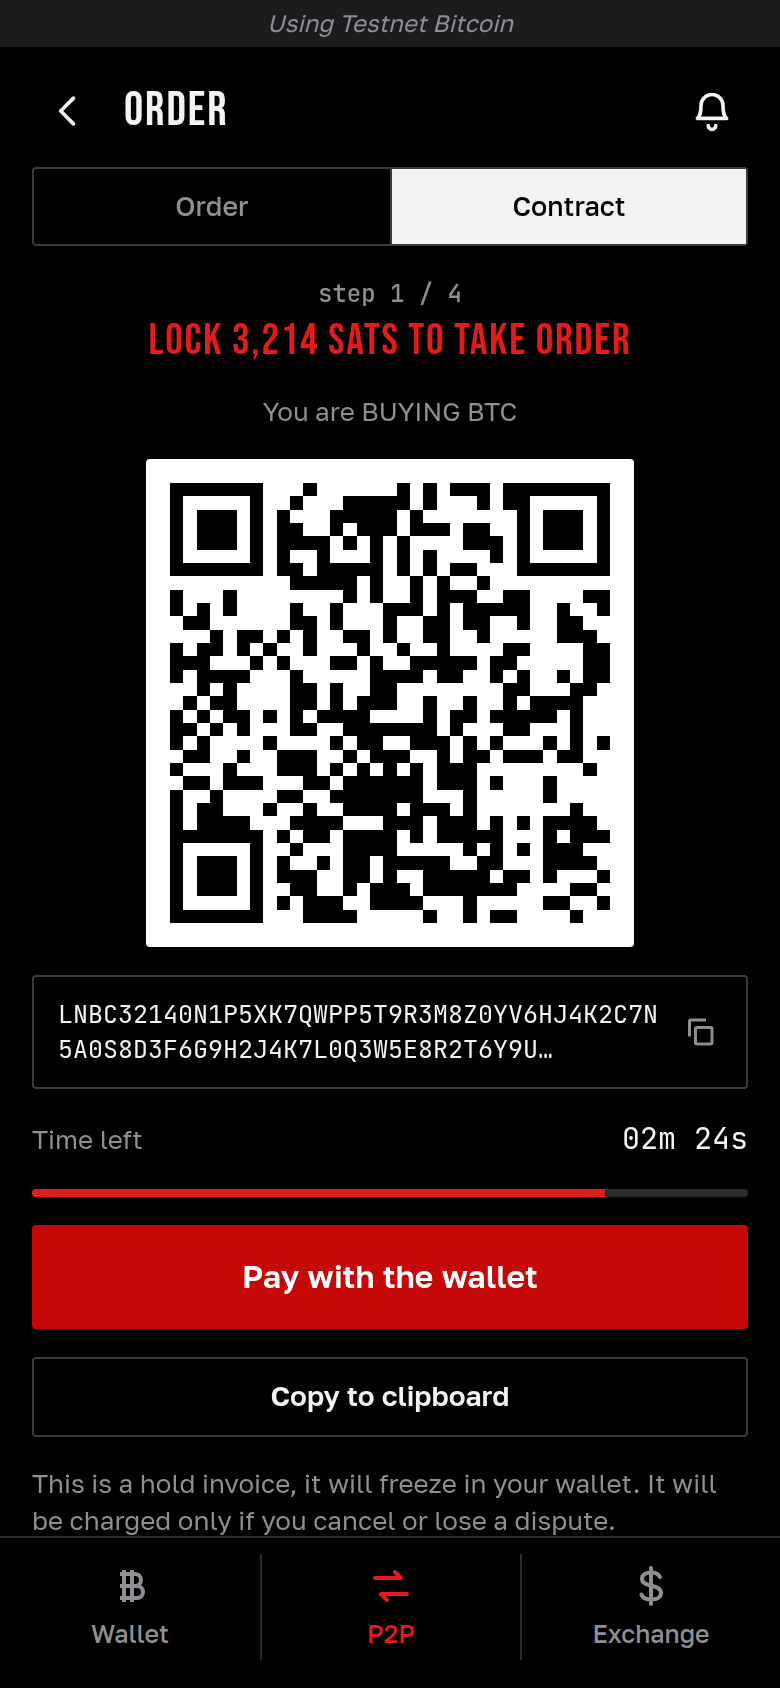
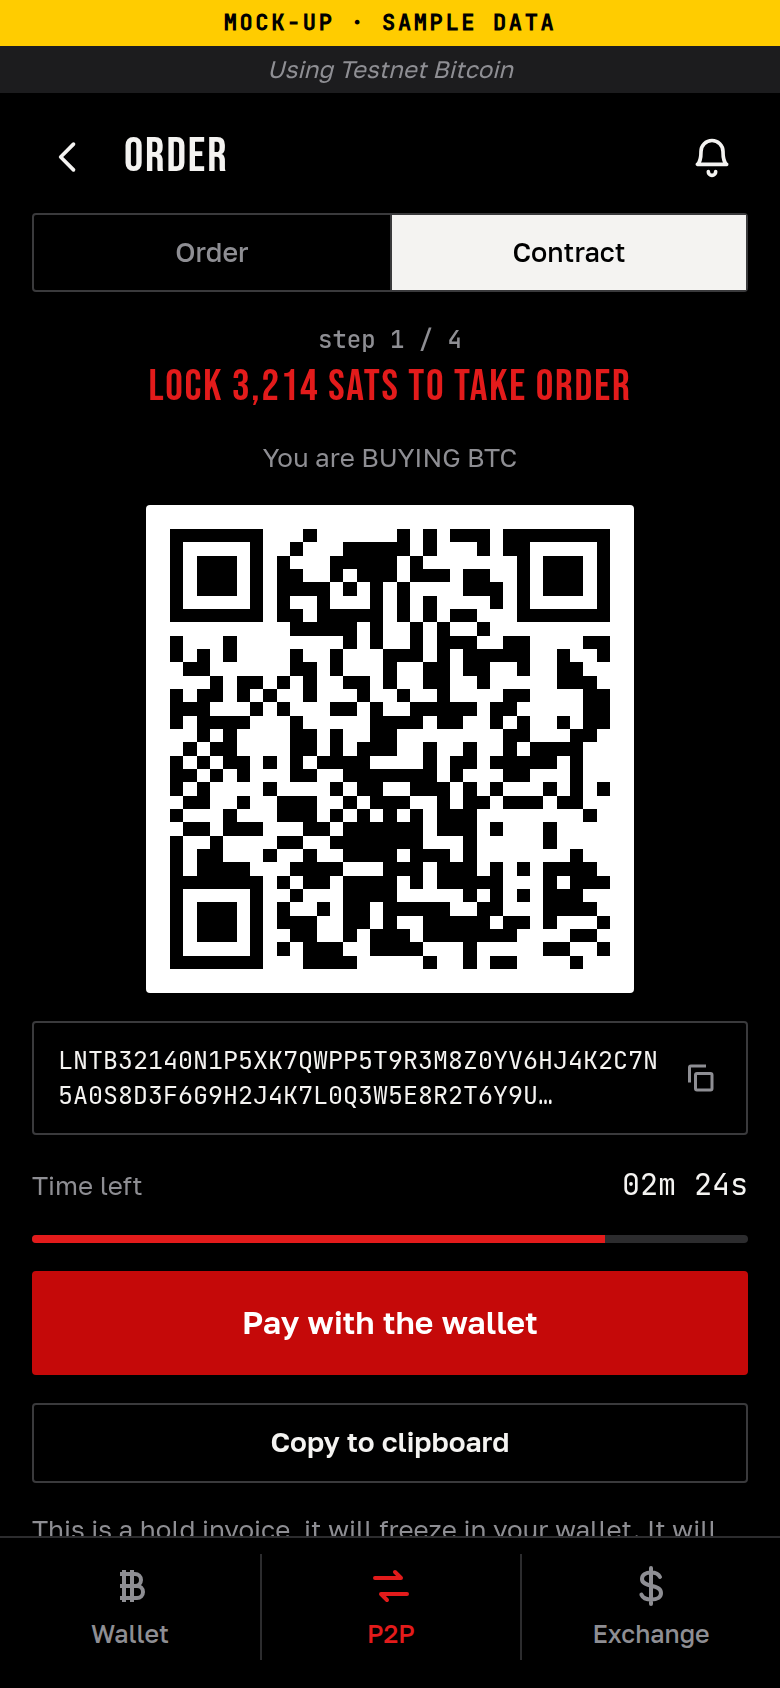
docs: tone down README claims and mark mock-up screenshots

Changed region(s): [[0.0, 0.0, 1.0, 0.9242], [0.8308, 0.8626, 0.9231, 0.9242]]

diff --git a/README.md b/README.md
@@ -9,61 +9,63 @@ Troc est un fork du portefeuille [Bull Bitcoin Mobile](https://github.com/Satosh
 
 ## L'idée
 
-RoboSats permet d'acheter ou de vendre du bitcoin contre de la monnaie fiduciaire, directement entre deux personnes : pas de compte, pas de pièce d'identité, une identité jetable (un « robot ») par échange, et tout le trafic par Tor. Les bitcoins de l'échange et les cautions des deux parties sont bloqués par des factures Lightning « hold » le temps que le paiement se fasse.
+RoboSats permet d'acheter ou de vendre du bitcoin contre de la monnaie fiduciaire, directement entre deux personnes : pas de compte, pas de pièce d'identité, une identité jetable (un « robot ») par échange, et des échanges avec le coordinateur qui passent par Tor. L'autre partie voit toutefois ce que révèle le moyen de paiement choisi. Les bitcoins de l'échange et les cautions des deux parties sont bloqués par des factures Lightning « hold » le temps que le paiement se fasse.
 
-Aujourd'hui, il faut deux outils : RoboSats d'un côté (son site dans le navigateur Tor, ou son application), un portefeuille Lightning de l'autre, et des factures à copier de l'un à l'autre à chaque étape.
+Aujourd'hui, il faut le plus souvent deux outils : RoboSats d'un côté (son site dans le navigateur Tor, ou son application), un portefeuille Lightning de l'autre, et des factures à faire passer de l'un à l'autre.
 
 Troc veut réunir les deux dans une seule application :
 
 - un onglet **P2P** dans le portefeuille, à côté des onglets existants ;
 - le **même parcours que RoboSats**, étape par étape et avec les mêmes libellés, habillé comme le reste du portefeuille ;
-- les sats achetés arrivent **directement dans le portefeuille**, qui prépare lui-même la facture de réception ;
+- les sats achetés sont **reçus dans le portefeuille**, qui prépare lui-même la facture de réception (par son service de swap : à vérifier avec RoboSats) ;
 - la connexion aux coordinateurs RoboSats passe par le **Tor déjà embarqué** dans le portefeuille.
+
+Ce sont des objectifs : la section « Où en est le projet » dit ce qui existe réellement.
 
 ## Aperçu (maquette)
 
-> Ces écrans sont une **maquette** : ils montrent la cible, pas l'application actuelle. Les données sont fictives. Aucun écran P2P n'est encore présent dans l'application.
+> Ces écrans sont une **maquette** : ils montrent la cible, pas l'application actuelle. Les offres, les montants, les pseudos et les messages sont inventés. Aucun écran P2P n'est encore présent dans l'application.
 
 <table>
   <tr>
-    <td align="center"><img src="docs/maquette/fr-accueil.png" width="190" alt="Maquette : accueil du portefeuille avec un onglet P2P dans la barre du bas"><br><sub>Un onglet P2P dans le portefeuille</sub></td>
-    <td align="center"><img src="docs/maquette/fr-tor.png" width="190" alt="Maquette : connexion au réseau Tor"><br><sub>Connexion à Tor</sub></td>
-    <td align="center"><img src="docs/maquette/fr-robot.png" width="190" alt="Maquette : présentation du robot, son avatar et son pseudo"><br><sub>Un robot : une identité jetable</sub></td>
-    <td align="center"><img src="docs/maquette/fr-offres.png" width="190" alt="Maquette : carnet d'offres avec filtres et liste des offres"><br><sub>Le carnet d'offres</sub></td>
+    <td align="center"><img src="docs/maquette/fr-accueil.png" width="170" alt="Maquette : accueil du portefeuille avec un onglet P2P dans la barre du bas"><br><sub>Un onglet P2P dans le portefeuille</sub></td>
+    <td align="center"><img src="docs/maquette/fr-tor.png" width="170" alt="Maquette : connexion au réseau Tor"><br><sub>Connexion à Tor</sub></td>
+    <td align="center"><img src="docs/maquette/fr-robot.png" width="170" alt="Maquette : présentation du robot, son avatar et son pseudo"><br><sub>Un robot : une identité jetable</sub></td>
+    <td align="center"><img src="docs/maquette/fr-offres.png" width="170" alt="Maquette : carnet d'ordres avec filtres et liste des offres"><br><sub>Le carnet d'ordres</sub></td>
   </tr>
   <tr>
-    <td align="center"><img src="docs/maquette/fr-offre.png" width="190" alt="Maquette : fiche détaillée d'une offre"><br><sub>La fiche d'une offre</sub></td>
-    <td align="center"><img src="docs/maquette/fr-caution.png" width="190" alt="Maquette : facture de caution à bloquer, avec QR code"><br><sub>Bloquer la caution</sub></td>
-    <td align="center"><img src="docs/maquette/fr-chat.png" width="190" alt="Maquette : chat chiffré avec le vendeur"><br><sub>Le chat chiffré avec le vendeur</sub></td>
-    <td align="center"><img src="docs/maquette/fr-fin.png" width="190" alt="Maquette : échange terminé, résumé et sats reçus"><br><sub>Échange terminé</sub></td>
+    <td align="center"><img src="docs/maquette/fr-offre.png" width="170" alt="Maquette : fiche détaillée d'une offre"><br><sub>La fiche d'une offre</sub></td>
+    <td align="center"><img src="docs/maquette/fr-caution.png" width="170" alt="Maquette : facture de caution à bloquer, avec QR code"><br><sub>Bloquer la caution</sub></td>
+    <td align="center"><img src="docs/maquette/fr-chat.png" width="170" alt="Maquette : chat chiffré avec le vendeur"><br><sub>Le chat chiffré avec le vendeur</sub></td>
+    <td align="center"><img src="docs/maquette/fr-fin.png" width="170" alt="Maquette : échange terminé, résumé et sats reçus"><br><sub>Échange terminé</sub></td>
   </tr>
 </table>
 
 Quelques précisions sur ce que montre la maquette :
 
-- Le bouton « Payer avec le portefeuille » de l'écran de caution est un objectif, pas un acquis. Le portefeuille n'a pas de nœud Lightning et paie par un service de swap : il reste à vérifier qu'il peut régler une facture « hold », qui reste bloquée des heures ([#8](https://github.com/Skyman21m/troc/issues/8)). Le QR code, à payer avec un autre portefeuille comme dans RoboSats, reste la solution de base.
-- L'avatar des robots est provisoire ([#22](https://github.com/Skyman21m/troc/issues/22)). Le pseudo, lui, est calculé comme dans RoboSats.
-- Les textes français absents de la traduction de RoboSats sont complétés ; les libellés anglais sont ceux de RoboSats.
+- Le bouton « Payer avec le portefeuille » de l'écran de caution est un objectif, pas un acquis. Le portefeuille n'a pas de nœud Lightning et paie par un service de swap : il reste à vérifier qu'il peut régler une facture « hold », qui reste bloquée des heures ([#8](https://github.com/Skyman21m/troc/issues/8)). Payée ainsi, la caution ne resterait pas dans le portefeuille pendant le blocage, contrairement à ce que dit le texte de l'écran, repris de RoboSats : elle serait chez le service de swap. Le QR code, à payer avec un autre portefeuille comme dans RoboSats, reste la solution de base.
+- L'avatar des robots est provisoire ([#22](https://github.com/Skyman21m/troc/issues/22)). Dans le code, le pseudo est déjà calculé comme dans RoboSats ; ceux de la maquette sont inventés.
+- Les libellés reprennent ceux de RoboSats ; la traduction française est complétée là où elle manque, et quelques textes propres à Troc s'y ajoutent.
 
 <details>
 <summary>English screenshots (mock-up)</summary>
 
 <br>
 
-*Mock-up only: these screens show the target, not the current app. Fictional data.*
+*Mock-up only: these screens show the target, not the current app. Offers, amounts, nicknames and messages are made up. The “Pay with the wallet” button is a goal, not a given: paying a hold invoice through the wallet's swap service is still untested ([#8](https://github.com/Skyman21m/troc/issues/8)).*
 
 <table>
   <tr>
-    <td align="center"><img src="docs/maquette/en-accueil.png" width="190" alt="Mock-up: wallet home with a P2P tab in the bottom bar"><br><sub>A P2P tab in the wallet</sub></td>
-    <td align="center"><img src="docs/maquette/en-tor.png" width="190" alt="Mock-up: connecting to the Tor network"><br><sub>Connecting to Tor</sub></td>
-    <td align="center"><img src="docs/maquette/en-robot.png" width="190" alt="Mock-up: the robot, its avatar and nickname"><br><sub>A robot: a disposable identity</sub></td>
-    <td align="center"><img src="docs/maquette/en-offres.png" width="190" alt="Mock-up: order book with filters and offers"><br><sub>The order book</sub></td>
+    <td align="center"><img src="docs/maquette/en-accueil.png" width="170" alt="Mock-up: wallet home with a P2P tab in the bottom bar"><br><sub>A P2P tab in the wallet</sub></td>
+    <td align="center"><img src="docs/maquette/en-tor.png" width="170" alt="Mock-up: connecting to the Tor network"><br><sub>Connecting to Tor</sub></td>
+    <td align="center"><img src="docs/maquette/en-robot.png" width="170" alt="Mock-up: the robot, its avatar and nickname"><br><sub>A robot: a disposable identity</sub></td>
+    <td align="center"><img src="docs/maquette/en-offres.png" width="170" alt="Mock-up: order book with filters and offers"><br><sub>The order book</sub></td>
   </tr>
   <tr>
-    <td align="center"><img src="docs/maquette/en-offre.png" width="190" alt="Mock-up: details of an offer"><br><sub>An offer's details</sub></td>
-    <td align="center"><img src="docs/maquette/en-caution.png" width="190" alt="Mock-up: bond invoice to lock, with QR code"><br><sub>Locking the bond</sub></td>
-    <td align="center"><img src="docs/maquette/en-chat.png" width="190" alt="Mock-up: encrypted chat with the seller"><br><sub>Encrypted chat with the seller</sub></td>
-    <td align="center"><img src="docs/maquette/en-fin.png" width="190" alt="Mock-up: trade finished, summary and sats received"><br><sub>Trade finished</sub></td>
+    <td align="center"><img src="docs/maquette/en-offre.png" width="170" alt="Mock-up: details of an offer"><br><sub>An offer's details</sub></td>
+    <td align="center"><img src="docs/maquette/en-caution.png" width="170" alt="Mock-up: bond invoice to lock, with QR code"><br><sub>Locking the bond</sub></td>
+    <td align="center"><img src="docs/maquette/en-chat.png" width="170" alt="Mock-up: encrypted chat with the seller"><br><sub>Encrypted chat with the seller</sub></td>
+    <td align="center"><img src="docs/maquette/en-fin.png" width="170" alt="Mock-up: trade finished, summary and sats received"><br><sub>Trade finished</sub></td>
   </tr>
 </table>
 
@@ -71,14 +73,14 @@ Quelques précisions sur ce que montre la maquette :
 
 ## Comment se passe un échange
 
-Le déroulement est celui de RoboSats. Exemple pour un acheteur qui prend une offre :
+Le déroulement prévu est celui de RoboSats ; rien de ceci n'est encore utilisable dans l'application. Exemple pour un acheteur qui prend une offre :
 
-1. **Tor.** L'onglet P2P se connecte au réseau Tor ; le reste du portefeuille reste utilisable pendant ce temps.
+1. **Tor.** L'onglet P2P se connecte au réseau Tor ; le portefeuille reste utilisable pendant ce temps.
 2. **Robot.** L'application crée une clé de garage, une clé maîtresse dont elle tire autant de robots que nécessaire. Un robot est une identité jetable : un pseudo, un avatar et ses propres clés.
-3. **Carnet d'offres.** Les offres sont lues chez les coordinateurs de la fédération RoboSats, tous joints par leur adresse `.onion`.
-4. **Caution.** Pour prendre une offre, l'acheteur bloque une petite caution par une facture « hold » : les sats sont gelés, pas dépensés, et lui reviennent si tout se passe bien.
-5. **Séquestre.** L'acheteur indique où recevoir ses sats, puis le vendeur bloque les bitcoins de l'échange de la même façon.
-6. **Paiement.** Les deux parties se parlent dans un chat chiffré de bout en bout. L'acheteur envoie la monnaie fiduciaire par le moyen convenu, puis le confirme.
+3. **Carnet d'ordres.** Les offres sont lues chez les coordinateurs de la fédération RoboSats, tous joints par leur adresse `.onion`.
+4. **Caution.** Pour prendre une offre, l'acheteur bloque une petite caution par une facture « hold » : les sats sont gelés, pas dépensés, et lui reviennent s'il respecte les étapes et les délais.
+5. **Séquestre.** L'acheteur indique où recevoir ses sats et, en parallèle, le vendeur bloque les bitcoins de l'échange de la même façon.
+6. **Paiement.** Les deux parties se parlent dans un chat chiffré de bout en bout (leurs clés sont transmises par le coordinateur). L'acheteur envoie la monnaie fiduciaire par le moyen convenu, puis le confirme.
 7. **Fin.** Le vendeur confirme la réception : les sats sont envoyés à l'acheteur et les cautions sont débloquées. En cas de désaccord, un litige peut être ouvert auprès du coordinateur.
 
 ## Où en est le projet
@@ -87,7 +89,7 @@ Le déroulement est celui de RoboSats. Exemple pour un acheteur qui prend une of
 
 | Phase | Contenu | État |
 |---|---|---|
-| 0 | Mise en place, intégration continue, vérifications techniques (Tor vers un coordinateur, identité robot, PGP, factures « hold ») | En grande partie faite ; reste notamment l'essai des factures « hold » ([#8](https://github.com/Skyman21m/troc/issues/8)) |
+| 0 | Mise en place, intégration continue, vérifications techniques (Tor vers un coordinateur, identité robot, PGP, factures « hold ») | En partie faite : Tor et identité robot vérifiés ; PGP vérifié hors ligne, pas encore face à un coordinateur ([#7](https://github.com/Skyman21m/troc/issues/7)) ; paiement des factures « hold » pas encore essayé ([#8](https://github.com/Skyman21m/troc/issues/8)) ; décision de fin de phase à prendre ([#9](https://github.com/Skyman21m/troc/issues/9)) |
 | 1 | Socle en lecture seule : carnet d'ordres, robots, écrans liste et détail | En cours |
 | 2 | Prendre une offre (parcours « taker ») | À venir |
 | 3 | Créer une offre (parcours « maker ») | À venir |
@@ -96,10 +98,10 @@ Le déroulement est celui de RoboSats. Exemple pour un acheteur qui prend une of
 
 Ce qui existe déjà dans le code, sans écran pour l'instant :
 
-- **L'identité des robots** : clé de garage, jetons, identifiant, pseudo, clé Nostr, vérifiés contre des valeurs de référence tirées de RoboSats ([compte rendu](docs/spikes/identite-robot.md)).
-- **Les clés et messages OpenPGP des robots** : clé du robot, signatures, chiffrement du chat, vérifiés dans les deux sens avec GnuPG et OpenPGP.js ([compte rendu](docs/spikes/pgp.md)). Cette couche est écrite en Dart et provisoire : une bibliothèque Rust éprouvée doit la remplacer avant toute diffusion ([#25](https://github.com/Skyman21m/troc/issues/25)).
+- **L'identité des robots** : clé de garage, jetons, identifiant, pseudo, vérifiés contre des valeurs de référence tirées de RoboSats ; la clé Nostr est calculée, mais sa formule reste à confirmer face à un coordinateur ([#28](https://github.com/Skyman21m/troc/issues/28)) ([compte rendu](docs/spikes/identite-robot.md)).
+- **Les clés et messages OpenPGP des robots** : clé du robot, signatures, chiffrement du chat, vérifiés dans les deux sens avec GnuPG et OpenPGP.js, pas encore essayés face à un coordinateur ([compte rendu](docs/spikes/pgp.md)). Cette couche est écrite en Dart et provisoire : une bibliothèque Rust éprouvée doit la remplacer avant toute diffusion ([#25](https://github.com/Skyman21m/troc/issues/25)).
 - **La lecture des coordinateurs** : informations, carnet d'ordres et limites de chaque coordinateur de la fédération, avec contrôle de son identité et de tout ce qu'il renvoie ([détails](packages/robosats/README.md)).
-- **Un premier contact par Tor** : un test joint les coordinateurs réels par le Tor embarqué du portefeuille ([mesures](docs/spikes/tor-robosats.md)).
+- **Un premier contact par Tor** : un test joint les coordinateurs réels par le Tor embarqué du portefeuille, sur PC pour l'instant, pas encore sur téléphone ([mesures](docs/spikes/tor-robosats.md)).
 
 En cours : le branchement de cette lecture sur le Tor du portefeuille ([#27](https://github.com/Skyman21m/troc/issues/27)), puis les premiers écrans ([#29](https://github.com/Skyman21m/troc/issues/29), [#30](https://github.com/Skyman21m/troc/issues/30)).
 
@@ -109,19 +111,20 @@ Android d'abord. Rien n'est encore publié. À ce stade, l'application affiche e
 
 ## Comment c'est construit
 
-Troc ajoute deux modules au code de Bull et touche le moins possible au reste, pour pouvoir suivre les mises à jour du portefeuille d'origine.
+Troc ajoute un module au code de Bull, et un second est en préparation ; il touche le moins possible au reste, pour pouvoir suivre les mises à jour du portefeuille d'origine.
 
 | Module | Rôle |
 |---|---|
-| [`packages/robosats`](packages/robosats/README.md) | Le protocole RoboSats en Dart pur, sans interface ni réseau : identité des robots, OpenPGP, lecture des coordinateurs. Il parle au réseau à travers une interface que l'application fournit. |
-| `features/p2p` | La partie application : le transport par le Tor du portefeuille, puis les écrans de l'onglet P2P. En cours. |
+| [`packages/robosats`](packages/robosats/README.md) | Une partie du protocole RoboSats en Dart pur, sans écran ni accès réseau propre : identité des robots, OpenPGP, lecture des coordinateurs. Il parle au réseau à travers un point d'entrée que l'application fournit. |
+| `features/p2p` | La partie application : le transport par le Tor du portefeuille, puis les écrans de l'onglet P2P. En préparation ([#27](https://github.com/Skyman21m/troc/issues/27)), pas encore sur `main`. |
 
 Principes suivis :
 
 - **Tor uniquement.** Les coordinateurs RoboSats ne sont joints que par leur adresse `.onion`.
-- **Des identités séparées du portefeuille.** Les clés des robots sont jetables et ne sont jamais dérivées de la phrase de récupération du portefeuille.
-- **Rien n'est cru sur parole.** Tout ce qui vient d'un coordinateur ou de l'autre partie est borné en taille et vérifié avant d'être utilisé.
-- **Pas d'audit pour l'instant.** Un audit de sécurité indépendant est prévu avant toute bêta (phase 5).
+- **Des identités séparées du portefeuille.** Les clés des robots sont jetables et ne sont jamais dérivées de la phrase de récupération du portefeuille. Cette phrase ne les restaure donc pas : la clé de garage demande sa propre sauvegarde.
+- **Les données reçues sont traitées comme non fiables.** Les réponses des coordinateurs et les messages de l'autre partie sont bornés en taille et vérifiés avant usage. Comme dans RoboSats, il faut malgré tout faire confiance au coordinateur pour le séquestre, les litiges et la transmission de la clé de l'autre partie.
+
+Le code n'a pas encore été audité. Un audit de sécurité indépendant est prévu avant toute bêta (phase 5).
 
 Les règles propres au fork sont dans la section « Troc (fork) » de [AGENTS.md](AGENTS.md).
 
